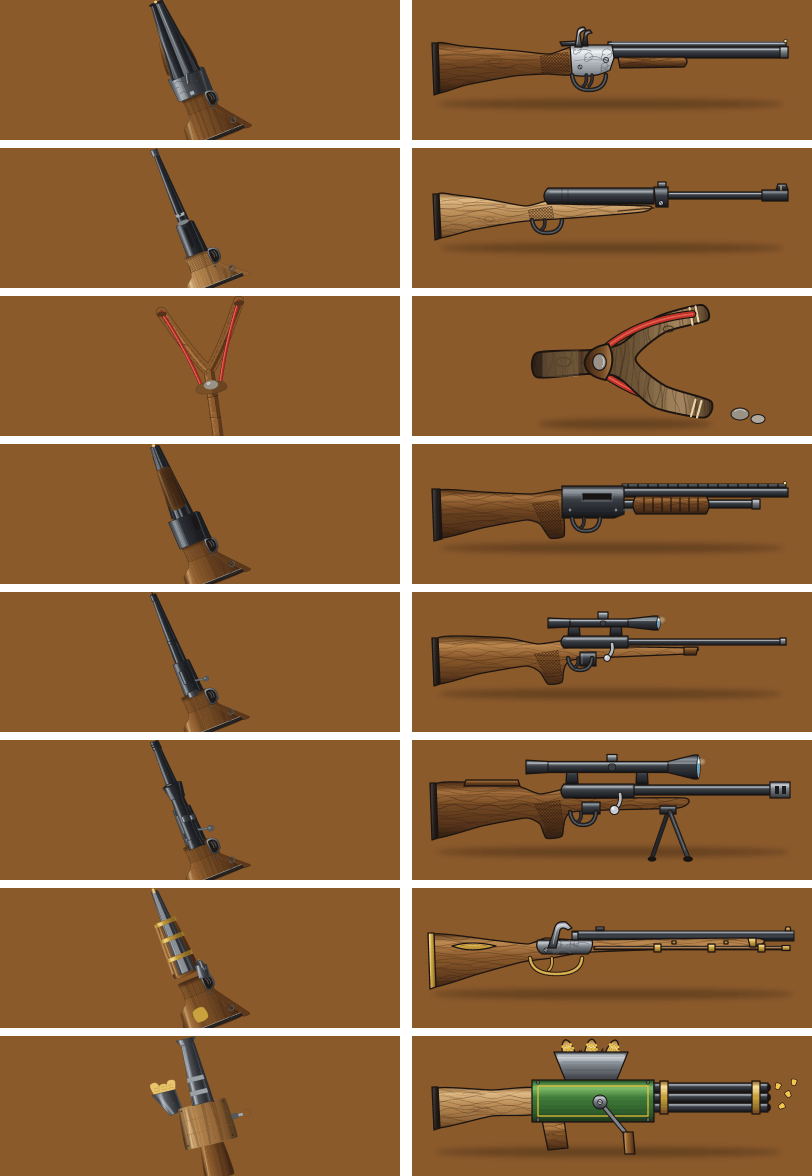
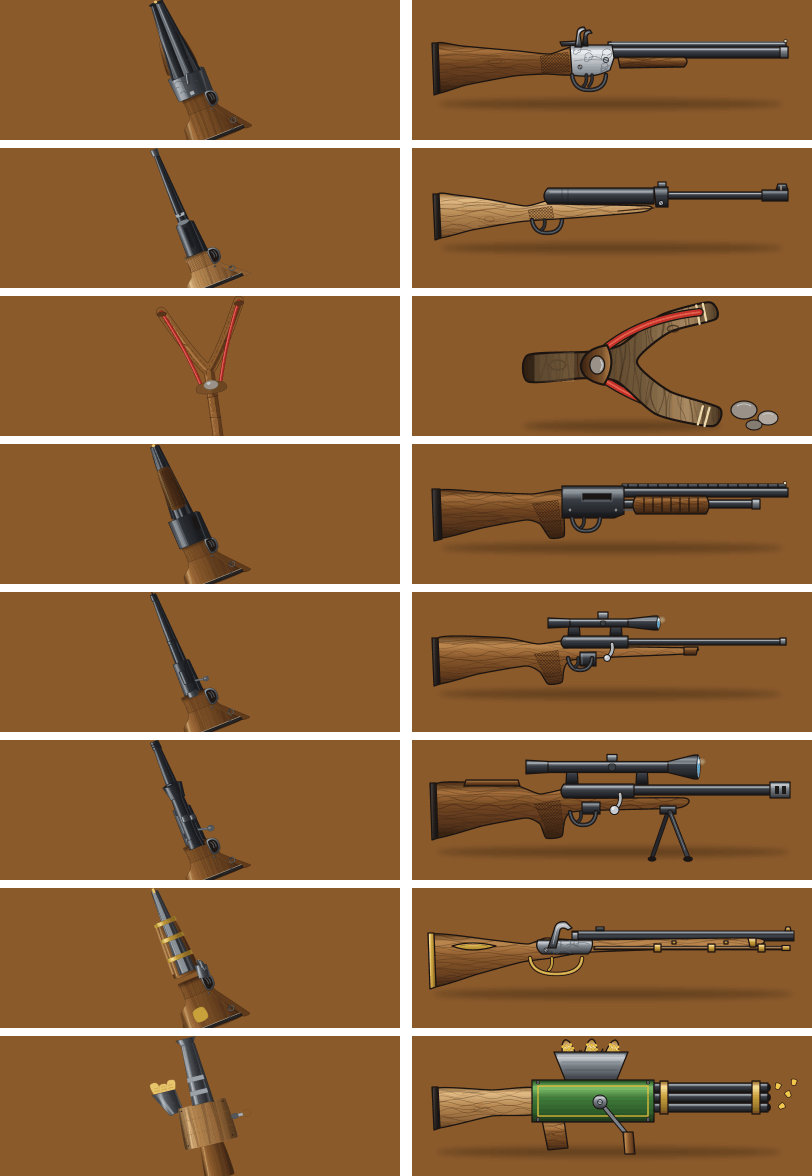
fix(shed): the Kettie fills its card at 1.65x with three spare stones (D-084)
gun-shed.spec failed on CI for the locked Kettie: greyed, the 1.5x fork
covered 4.4 % of its picture on desktop (needs > 5 %). Drawn at the cell's
height (1.65x, inside the 2 px cell margin) with larger stones it covers
6.1 % on desktop, 7.2 % on Pixel 7 and iPhone 14 (local runs). The test's
threshold is unchanged.

Claude-Session: https://claude.ai/code/session_01X9BKcABj5FscZbGJZnCiA3

Changed region(s): [[0.6466, 0.2755, 0.9544, 0.3673], [0.8313, 0.2449, 0.8929, 0.2755]]

diff --git a/tools/art/gunCards.ts b/tools/art/gunCards.ts
@@ -401,16 +401,19 @@ function kettie(a: Art): string {
   );
   const band = (d: string): string =>
     stroke(d, INK, 5.2) + stroke(d, '#C8302A', 3.6) + stroke(d, '#F07A5A', 1, 0.7);
-  // v1.19 (D-084, CI): laid on its side, fork to the right and drawn 1.5× — upright it filled
-  // only a sliver of the wide card. The shadow and the spare stones lie under it, unturned.
+  // v1.19 (D-084, CI): laid on its side, fork to the right and drawn 1.65× (the cell's height) —
+  // upright it filled only a sliver of the wide card, and greyed (locked) a 1.5× fork left
+  // the card under it almost bare. Three spare stones lie beside it; shadow and stones unturned.
   return g(
     {},
-    cardShadow(a, 116, 290, 128),
-    el('path', { d: ellipseD(318, 118, 9, 6), fill: '#9A9187', stroke: INK, 'stroke-width': 1 }),
-    el('path', { d: ellipseD(336, 123, 7, 4.5), fill: '#B1A89D', stroke: INK, 'stroke-width': 1 }),
-    shine('M313 115Q318 112 323 115', 0.5, 0.9),
+    cardShadow(a, 100, 300, 130),
+    el('path', { d: ellipseD(322, 114, 13, 9), fill: '#9A9187', stroke: INK, 'stroke-width': 1.2 }),
+    el('path', { d: ellipseD(346, 122, 10, 7), fill: '#B1A89D', stroke: INK, 'stroke-width': 1.1 }),
+    el('path', { d: ellipseD(332, 129, 8, 5), fill: '#857C72', stroke: INK, 'stroke-width': 1 }),
+    shine('M315 110Q322 106 329 110', 0.5, 0.9),
+    shine('M341 119Q346 116 351 119', 0.5, 0.8),
     g(
-      { transform: 'translate(200 66) rotate(90) scale(1.5) translate(-188 -75)' },
+      { transform: 'translate(200 69) rotate(90) scale(1.65) translate(-188 -75)' },
       // The far band behind the fork.
       band('M219 26Q214 62 194 90'),
       wood(a, fork, [150, 16, 226, 132], 31, 'bark'),
